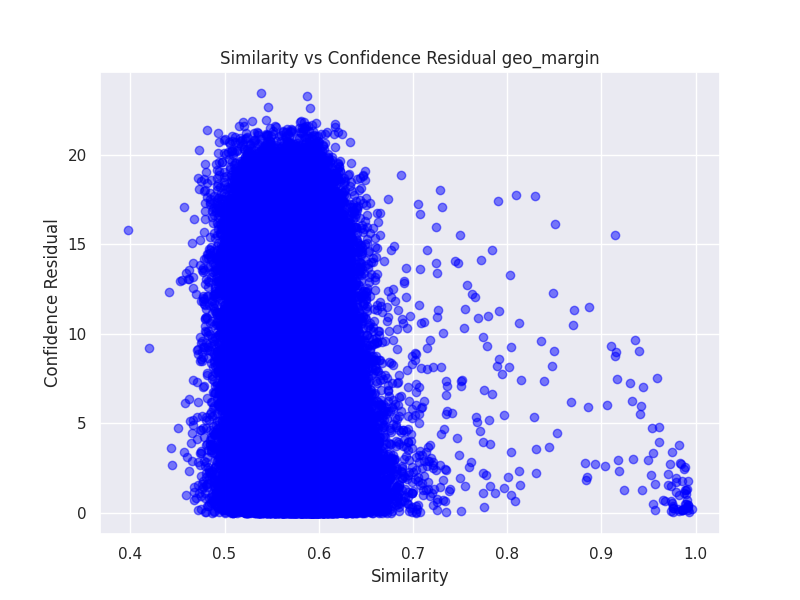
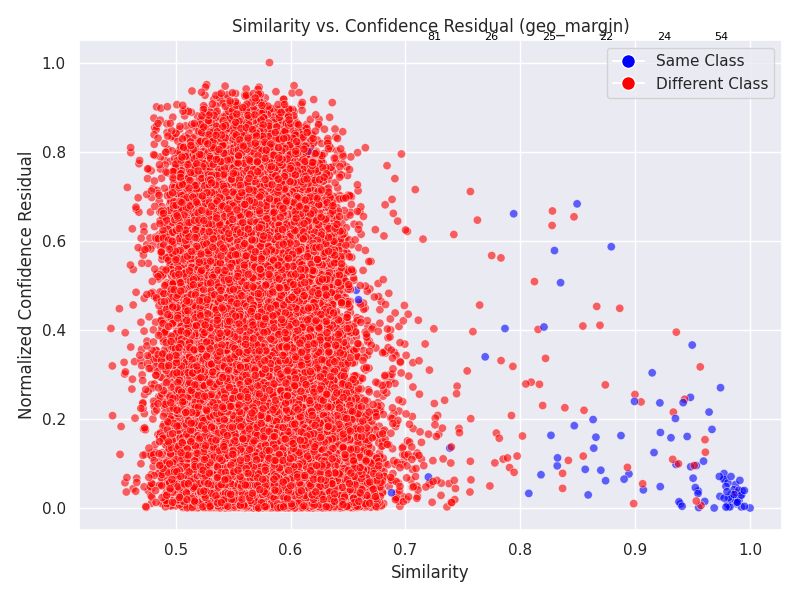
AWD

diff --git a/test.py b/test.py
@@ -1,5 +1,3 @@
-
-
 import random
 import argparse
 import os
@@ -8,45 +6,56 @@ import numpy as np
 import torch
 import torch.nn as nn
 import matplotlib.pyplot as plt
+from collections import Counter
+from matplotlib.lines import Line2D
+
+
+
 def compare_two_points_confidence(scores_dict, data, point1, point2, method="max_logit"):
+
     confidence1 = scores_dict[method][point1]
     confidence2 = scores_dict[method][point2]
     confidence_residual = abs(confidence1 - confidence2)
+
   
     feature1 = data['features'][point1]
     feature2 = data['features'][point2]
+
+
     similarity = np.dot(feature1, feature2) / (np.linalg.norm(feature1) * np.linalg.norm(feature2))
     similarity = (similarity + 1) / 2
+
     return confidence_residual, similarity
-def plot_similarity_vs_residual(similarities, residuals, output_path, method="max_logit"):
-    plt.figure(figsize=(8, 6))
-    plt.scatter(similarities, residuals, c='blue', alpha=0.5)
-    plt.title(f"Similarity vs Confidence Residual {method}")
-    plt.xlabel("Similarity")
-    plt.ylabel("Confidence Residual")
-    plt.grid(True)
-    plt.savefig(output_path)
-    plt.close()
+
+
 def main(args):
     load_data_root = args.data_dir
     in_logits, in_labels, in_features, last_layer_weights, last_layer_bias = read_data(load_data_root, True)
+
+
     in_set_length = in_features.shape[0]
     cali_indices = np.random.choice(in_set_length, args.cali_size, replace=False)
     cali_features = in_features[cali_indices, :]
     cali_logits = in_logits[cali_indices, :]
+
+
     in_scores_dict, in_residuals_dict = calculate_score_residual(
         in_logits, in_labels, in_features, last_layer_weights, last_layer_bias,
         clean_set_features=cali_features, clean_set_logits=cali_logits
     )
+
     data = {
         'logits': in_logits,
         'features': in_features,
         'labels': in_labels
     }
 
+    similarity_bins = [f"{i}-{i+5}" for i in range(70, 100, 5)]
     for key in in_scores_dict:
         similarities = []
         confidence_residuals = []
+        colors = []
+        similarity_counts = Counter({bin_label: 0 for bin_label in similarity_bins})
         for _ in range(100000):
             i = random.randint(0, in_set_length - 1)
             j = random.randint(0, in_set_length - 1)
@@ -54,9 +63,57 @@ def main(args):
             confidence_residual, similarity = compare_two_points_confidence(in_scores_dict, data, i, j, key)
             similarities.append(similarity)
             confidence_residuals.append(confidence_residual)
+
+
+
+
+            if in_labels[i] == in_labels[j]:
+                colors.append('blue')  
+            else:
+                colors.append('red')  
+
+        for similarity in similarities:
+            if similarity * 100 >= 70:
+                for i in range(70, 100, 5):
+                    if i <= (similarity * 100) < i + 5:
+                        bin_label = f"{i}-{i+5}"
+                        similarity_counts[bin_label] += 1
+                        break
+
+
+        print(f"Similarity distribution for {key}:")
+        for bin_label, count in similarity_counts.items():
+            print(f"{bin_label}: {count} points")
+            
+        max_conf = np.max(confidence_residuals)
+        normalized_confidence_residuals = [x / max_conf for x in confidence_residuals]    
+
+  
         output_path = os.path.join(".", f"similarity_vs_confidence_residual_{key}.png")
-        plot_similarity_vs_residual(similarities, confidence_residuals, output_path, key)
+        plt.figure(figsize=(8, 6))
+        plt.scatter(similarities, normalized_confidence_residuals, c=colors, alpha=0.6, edgecolors='w', linewidth=0.5)
+        plt.xlabel('Similarity')
+        plt.ylabel('Normalized Confidence Residual')
+        plt.title(f'Similarity vs. Confidence Residual ({key})')
+        for idx, (bin_label, count) in enumerate(similarity_counts.items()):
+            bin_start, bin_end = [int(x) for x in bin_label.split('-')]
+            avg_similarity = (bin_start + bin_end) / 200
+            plt.text(avg_similarity, 1.05, f"{count}", ha='center', fontsize=8, color="black")
+        
+        legend_elements = [
+            Line2D([0], [0], marker='o', color='w', label='Same Class', markerfacecolor='blue', markersize=10),
+            Line2D([0], [0], marker='o', color='w', label='Different Class', markerfacecolor='red', markersize=10)
+        ]
+        plt.legend(handles=legend_elements, loc='upper right')
+
+        plt.grid(True)
+        plt.tight_layout()
+        plt.savefig(output_path)
+        plt.close()
+
+
     print(f"Plot saved at {output_path}")
+
 if __name__ == "__main__":
     parser = argparse.ArgumentParser()
     parser.add_argument(
